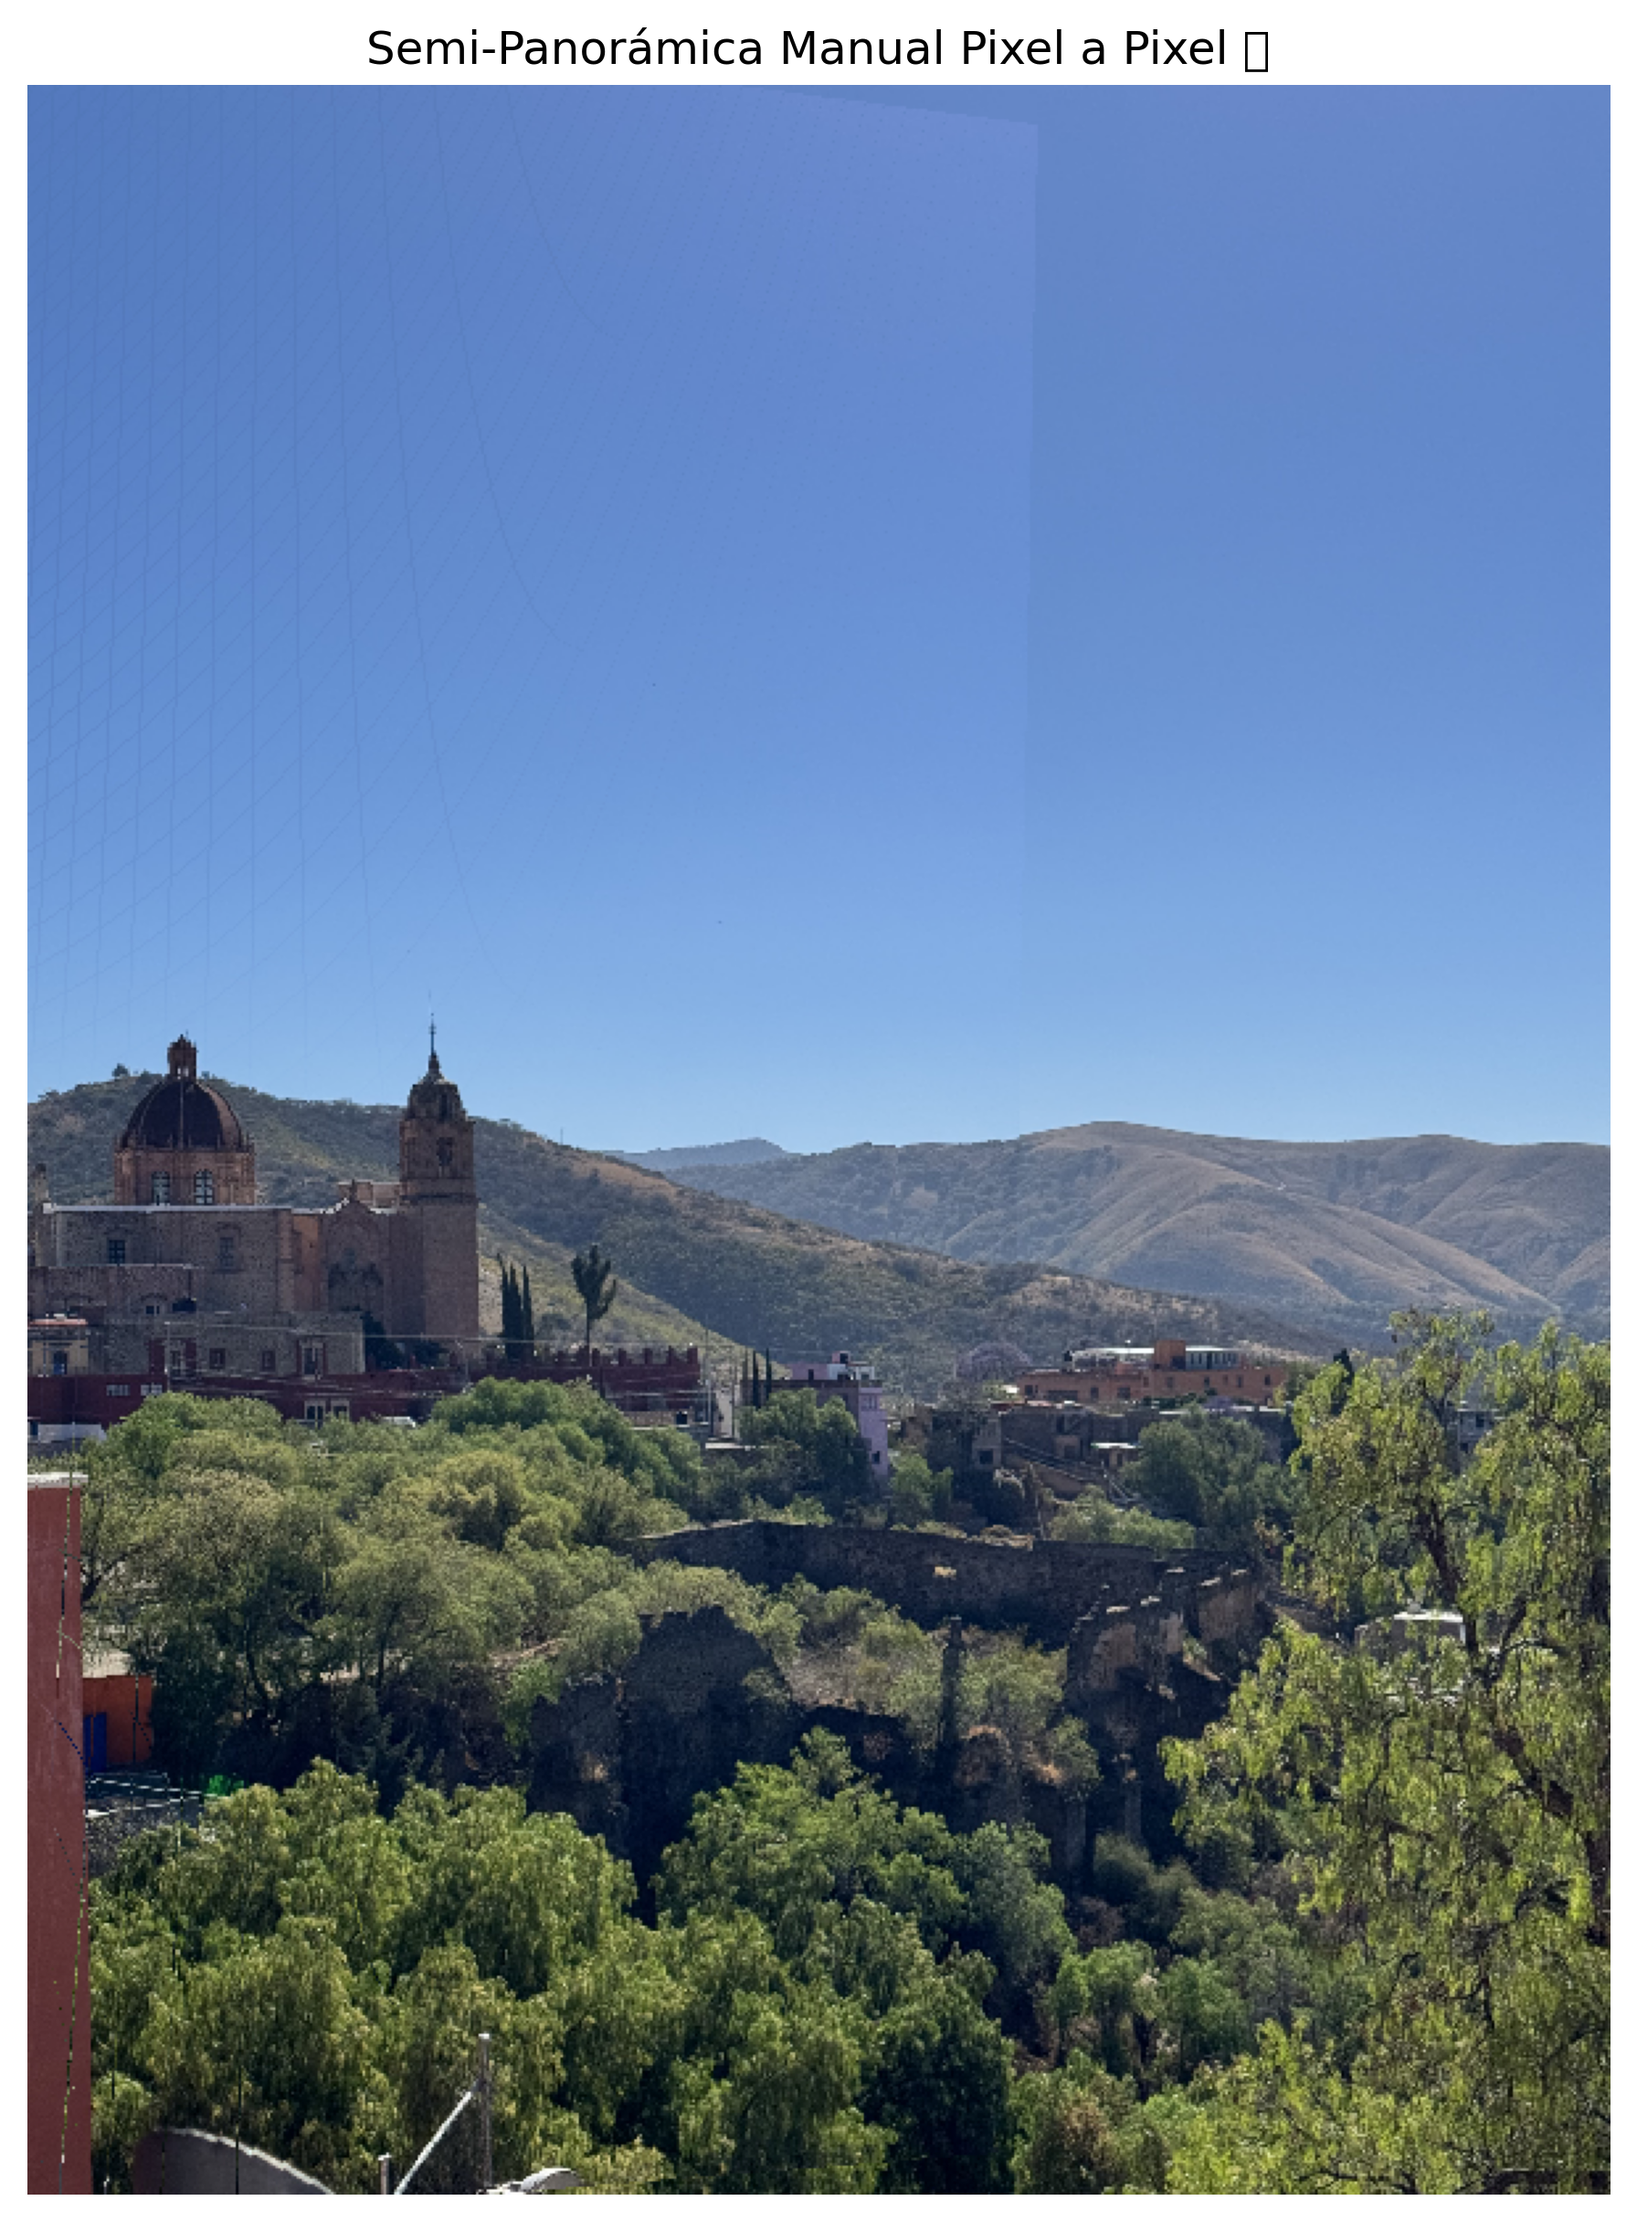
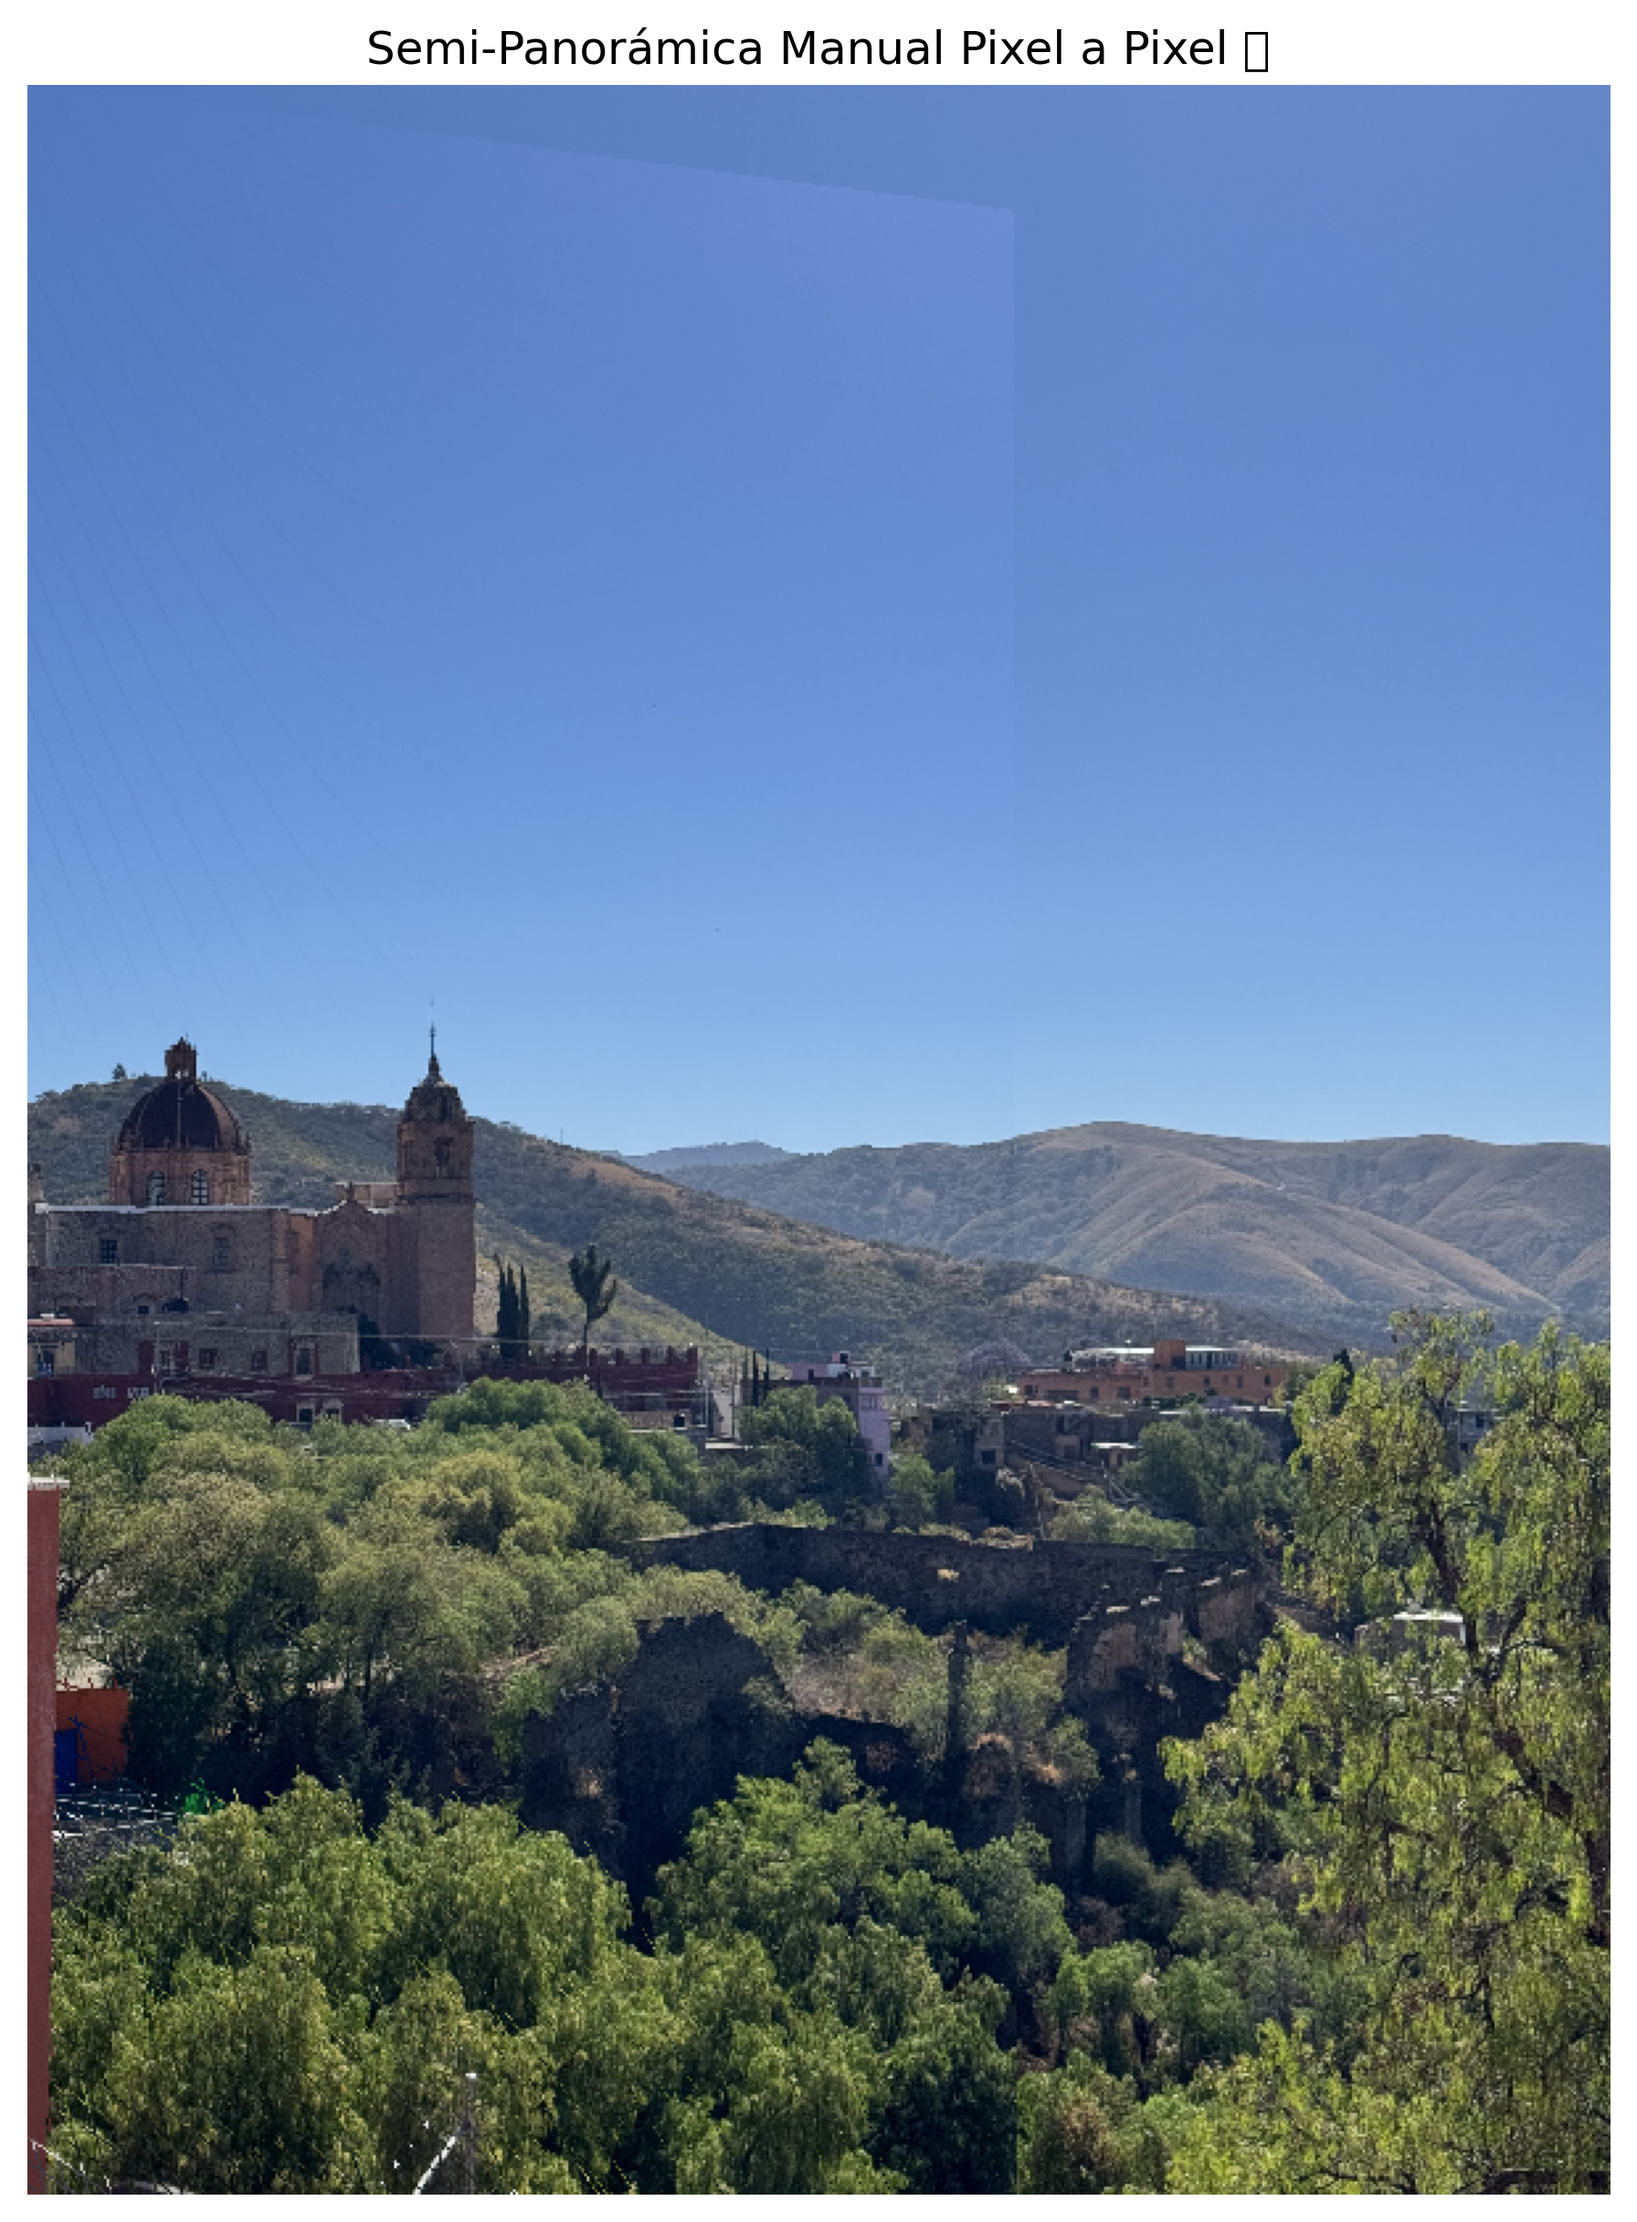
v2 dora

diff --git a/graphic_visualization/tareas/tarea_6/panoramicaV2.py b/graphic_visualization/tareas/tarea_6/panoramicaV2.py
@@ -154,41 +154,16 @@ def marcar(img):
     return puntos
 
 
-def new_corditates():
-    puntos_img1 = marcar(img_1.copy())
-    puntos_img2 = marcar(img_2.copy())
-    save_coordinates(puntos_img1, coords_file1)
-    save_coordinates(puntos_img2, coords_file2)
-
-
-
 img_1 = lista_natural_imgs[0]
 img_2 = lista_natural_imgs[1]
 
-coords_file1 = os.path.join(ruta, "coordenadas_img1.json")
-coords_file2 = os.path.join(ruta, "coordenadas_img2.json")
-
-if os.path.exists(coords_file1) and os.path.exists(coords_file2):
-    puntos_img1 = load_coordinates(coords_file1)
-    puntos_img2 = load_coordinates(coords_file2)
-    os.system("clear")
-    print("Puntos cargados.")
-    nuevas = input("¿Deseas marcar nuevas coordenadas? (s/n): ")
-    if nuevas.lower() == 's':
-        new_corditates()
-        print("Nuevas coordenadas guardadas.")
-else:
-    new_corditates()
-    print("Coordenadas guardadas.")
+# Marcado de coordenadas
+puntos_img1 = marcar(img_1.copy())
+puntos_img2 = marcar(img_2.copy())
 
 print("Coordenadas definitivas:")
 print("Imagen 1:", puntos_img1)
 print("Imagen 2:", puntos_img2)
- 
-# Verificar que se hayan marcado 4 puntos en cada imagen
-if len(puntos_img1) != 4 or len(puntos_img2) != 4:
-    print("Error: Se requieren 4 puntos en cada imagen para calcular la homografía.")
-    exit(1)
 
 # resultados matriz de homografía
 H = homografia(np.array(puntos_img1), np.array(puntos_img2))
@@ -253,5 +228,5 @@ plt.figure(figsize=(20, 10))
 plt.imshow(cv2.cvtColor(panorama_manual, cv2.COLOR_BGR2RGB))
 plt.title("Semi-Panorámica Manual Pixel a Pixel 🖼")
 plt.axis("off")
-plt.savefig("imagen_panoramica.png", dpi=300, bbox_inches="tight")
+plt.savefig("grafico.png", dpi=300, bbox_inches="tight")
 plt.show()
